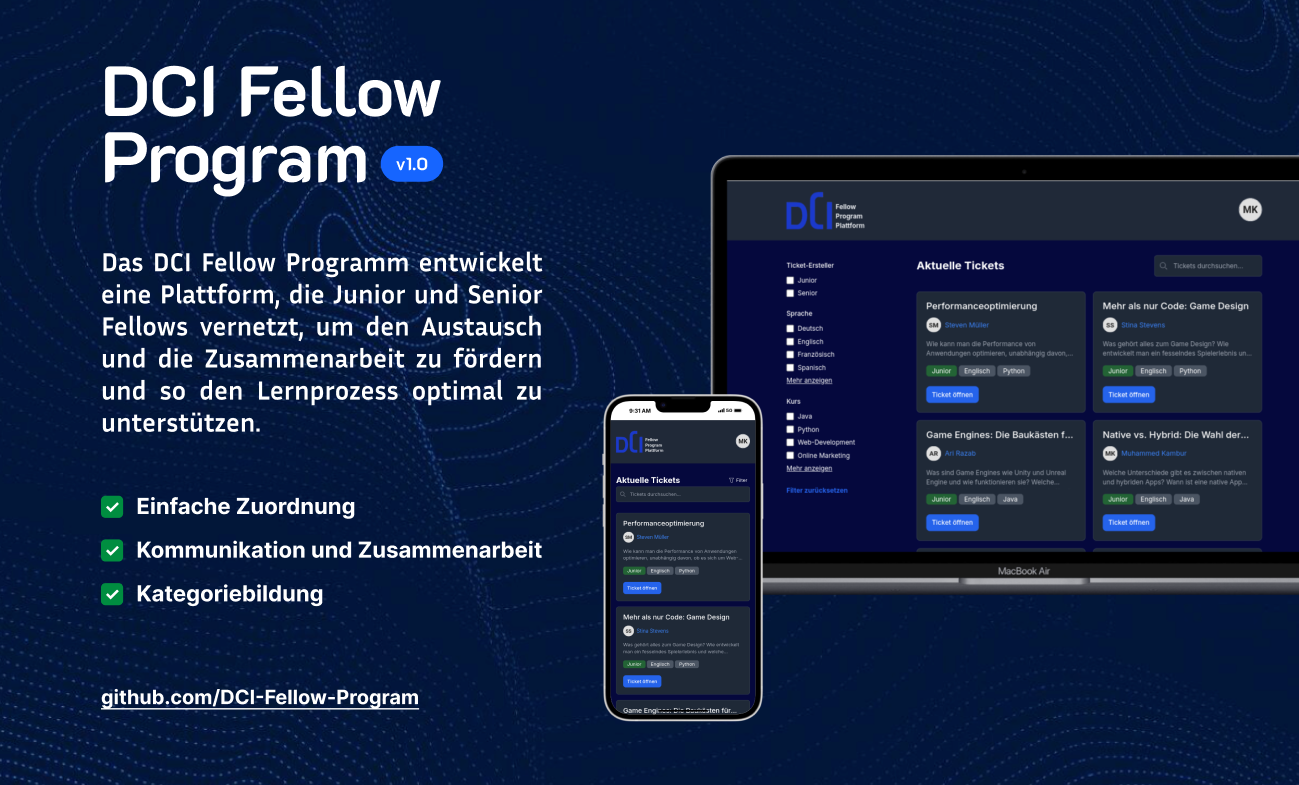
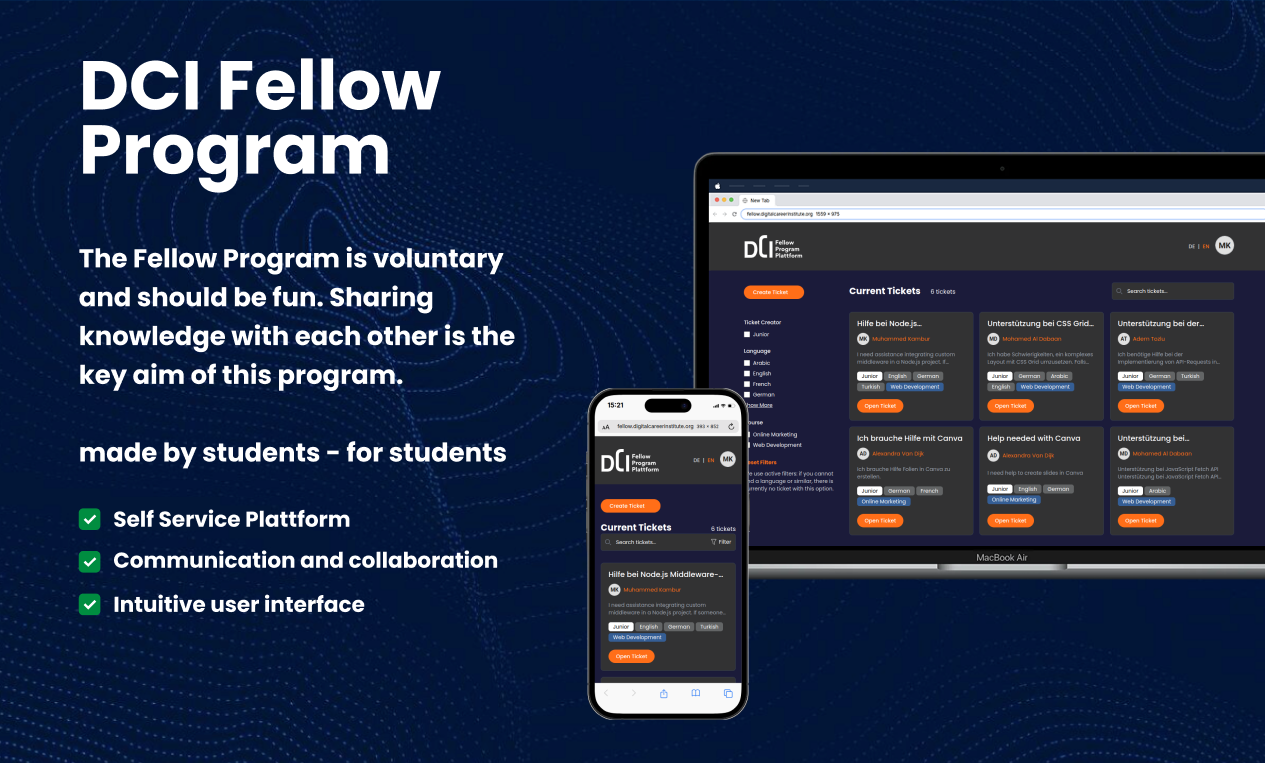
Update README.md

diff --git a/README.md b/README.md
@@ -1,17 +1,17 @@
-# DCI Fellow Program
-
 ![DCI Fellow Program Banner](./img/Fellow.png)
 
 ## Überblick
 
 Das DCI Fellow Program ist eine umfassende Webanwendung, die entwickelt wurde, um die Aktivitäten des Digital Career Institute zu verwalten und zu erleichtern. Dieses Projekt nutzt einen modernen Technologie-Stack, einschließlich eines React-Frontends mit Vite und Tailwind CSS sowie eines Express-Backends mit MongoDB. Die Anwendung unterstützt die Benutzerauthentifizierung, das Benutzermanagement, das Ticketmanagement und bietet ein responsives Design, das für verschiedene Geräte geeignet ist.
 
+![DCI Fellow Program Banner](./img/performance.png)
+
+
 ## Screenshots
 
 <div align="center">
   <img src="./img/desktop.png" alt="Screenshot 1" width="800"/><br>
-  <img src="./img/fellow-tablet.gif" alt="Screenshot 2" width="400"/><br>
-  <img src="./img/fellow-mobile.gif" alt="Screenshot 3" width="300"/>
+  <img src="./img/fellow.gif" alt="Screenshot 1" width="800"/><br>
 </div>
 
 ## Funktionen
@@ -63,23 +63,6 @@ Das DCI Fellow Program ist eine umfassende Webanwendung, die entwickelt wurde, u
 - **MongoDB**: Eine NoSQL-Datenbank zum Speichern von Anwendungsdaten.
 - **Mongoose**: Eine ODM (Object Data Modeling) Bibliothek für MongoDB und Node.js.
 - **JWT**: Für sichere Authentifizierung.
-
-## Projektstruktur
-
-### Frontend
-
-- **Components**: Wiederverwendbare UI-Komponenten.
-- **Pages**: Verschiedene Seiten der Anwendung (Home, Login, Register, etc.).
-- **Admin**: Admin-spezifische Komponenten und Seiten.
-- **Utils**: Dienstprogramme und Konstanten.
-- **Assets**: Statische Assets wie Bilder und Icons.
-
-### Backend
-
-- **Routes**: API-Routen für Benutzer- und Ticketmanagement.
-- **Models**: Mongoose-Modelle für MongoDB-Sammlungen.
-- **Controllers**: Logik zum Handling von API-Anfragen.
-- **Middleware**: Middleware-Funktionen für Authentifizierung und Fehlerbehandlung.
 
 ## Team
 

diff --git a/profile/README.md b/profile/README.md
@@ -1,17 +1,17 @@
-# DCI Fellow Program
-
 ![DCI Fellow Program Banner](./img/Fellow.png)
 
 ## Überblick
 
 Das DCI Fellow Program ist eine umfassende Webanwendung, die entwickelt wurde, um die Aktivitäten des Digital Career Institute zu verwalten und zu erleichtern. Dieses Projekt nutzt einen modernen Technologie-Stack, einschließlich eines React-Frontends mit Vite und Tailwind CSS sowie eines Express-Backends mit MongoDB. Die Anwendung unterstützt die Benutzerauthentifizierung, das Benutzermanagement, das Ticketmanagement und bietet ein responsives Design, das für verschiedene Geräte geeignet ist.
 
+![DCI Fellow Program Banner](./img/performance.png)
+
+
 ## Screenshots
 
 <div align="center">
   <img src="./img/desktop.png" alt="Screenshot 1" width="800"/><br>
-  <img src="./img/fellow-tablet.gif" alt="Screenshot 2" width="400"/><br>
-  <img src="./img/fellow-mobile.gif" alt="Screenshot 3" width="300"/>
+  <img src="./img/fellow.gif" alt="Screenshot 1" width="800"/><br>
 </div>
 
 ## Funktionen
@@ -63,23 +63,6 @@ Das DCI Fellow Program ist eine umfassende Webanwendung, die entwickelt wurde, u
 - **MongoDB**: Eine NoSQL-Datenbank zum Speichern von Anwendungsdaten.
 - **Mongoose**: Eine ODM (Object Data Modeling) Bibliothek für MongoDB und Node.js.
 - **JWT**: Für sichere Authentifizierung.
-
-## Projektstruktur
-
-### Frontend
-
-- **Components**: Wiederverwendbare UI-Komponenten.
-- **Pages**: Verschiedene Seiten der Anwendung (Home, Login, Register, etc.).
-- **Admin**: Admin-spezifische Komponenten und Seiten.
-- **Utils**: Dienstprogramme und Konstanten.
-- **Assets**: Statische Assets wie Bilder und Icons.
-
-### Backend
-
-- **Routes**: API-Routen für Benutzer- und Ticketmanagement.
-- **Models**: Mongoose-Modelle für MongoDB-Sammlungen.
-- **Controllers**: Logik zum Handling von API-Anfragen.
-- **Middleware**: Middleware-Funktionen für Authentifizierung und Fehlerbehandlung.
 
 ## Team
 
